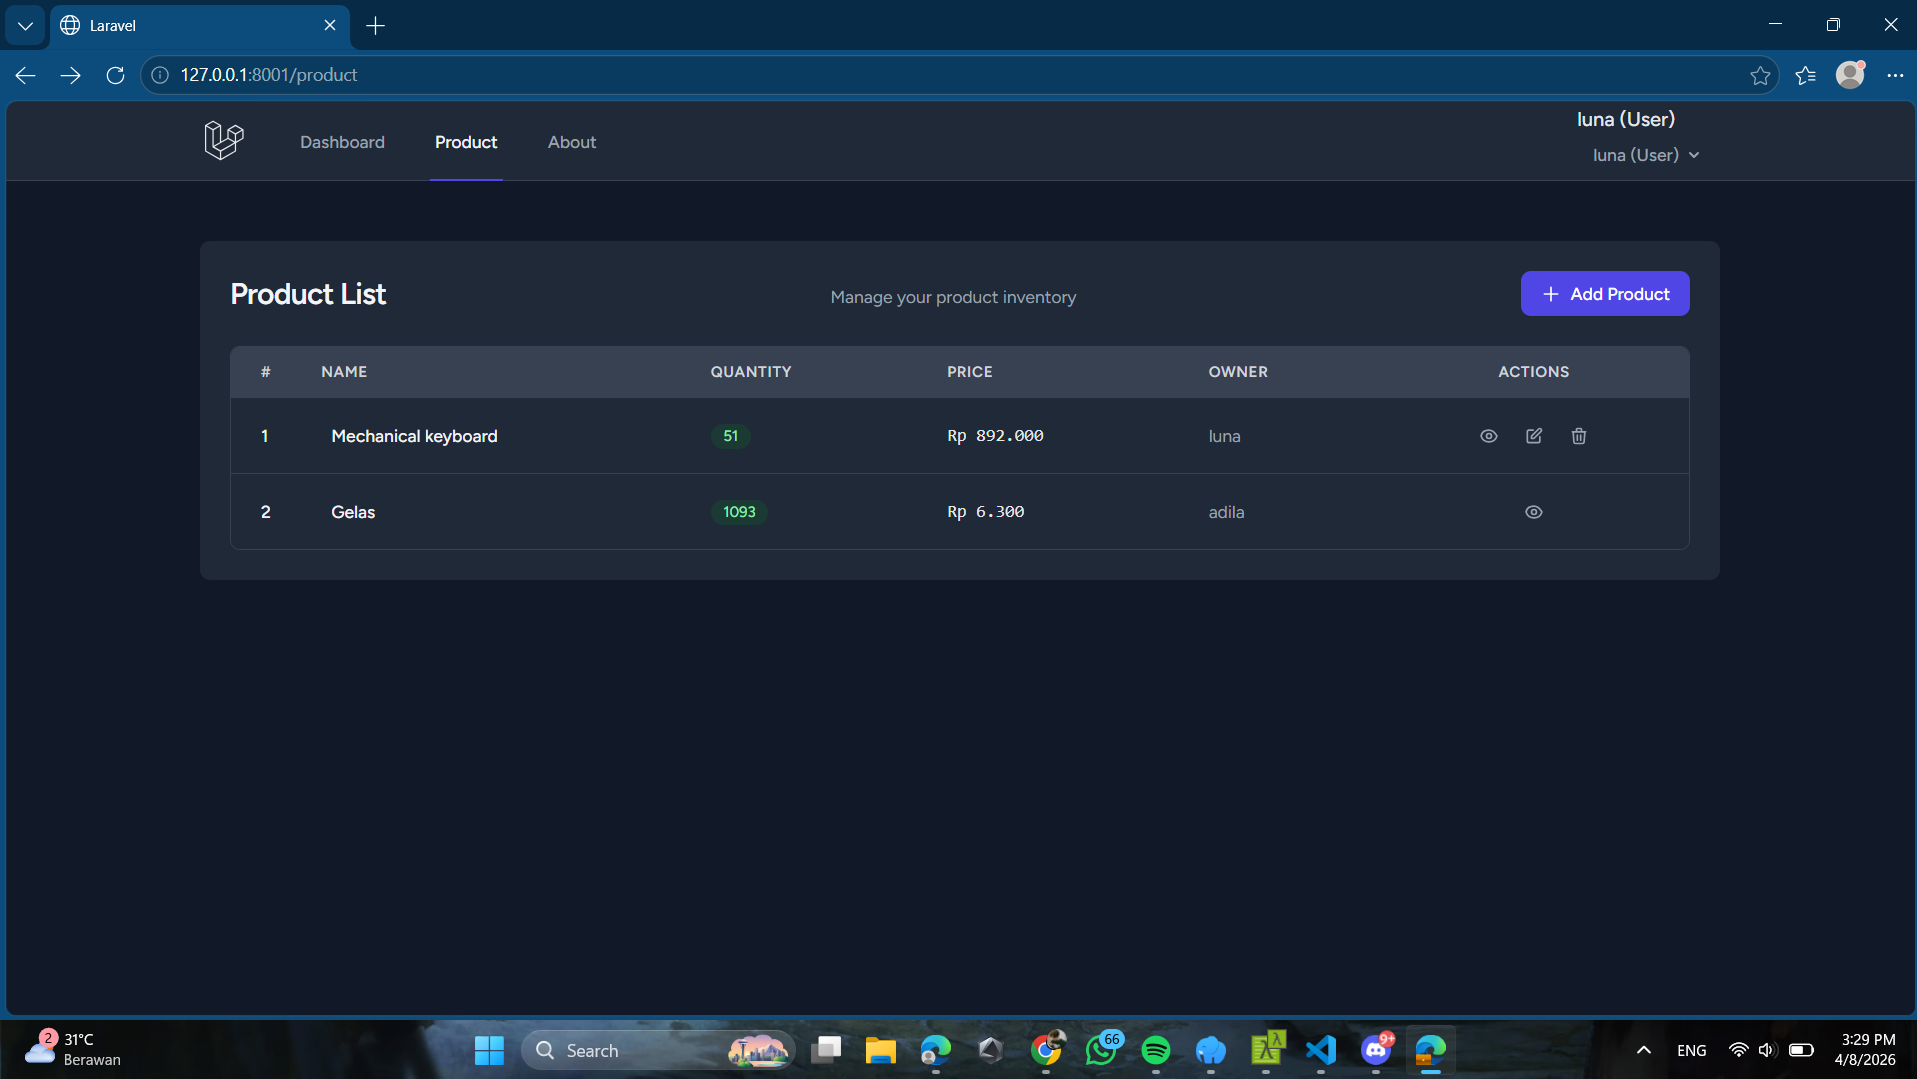
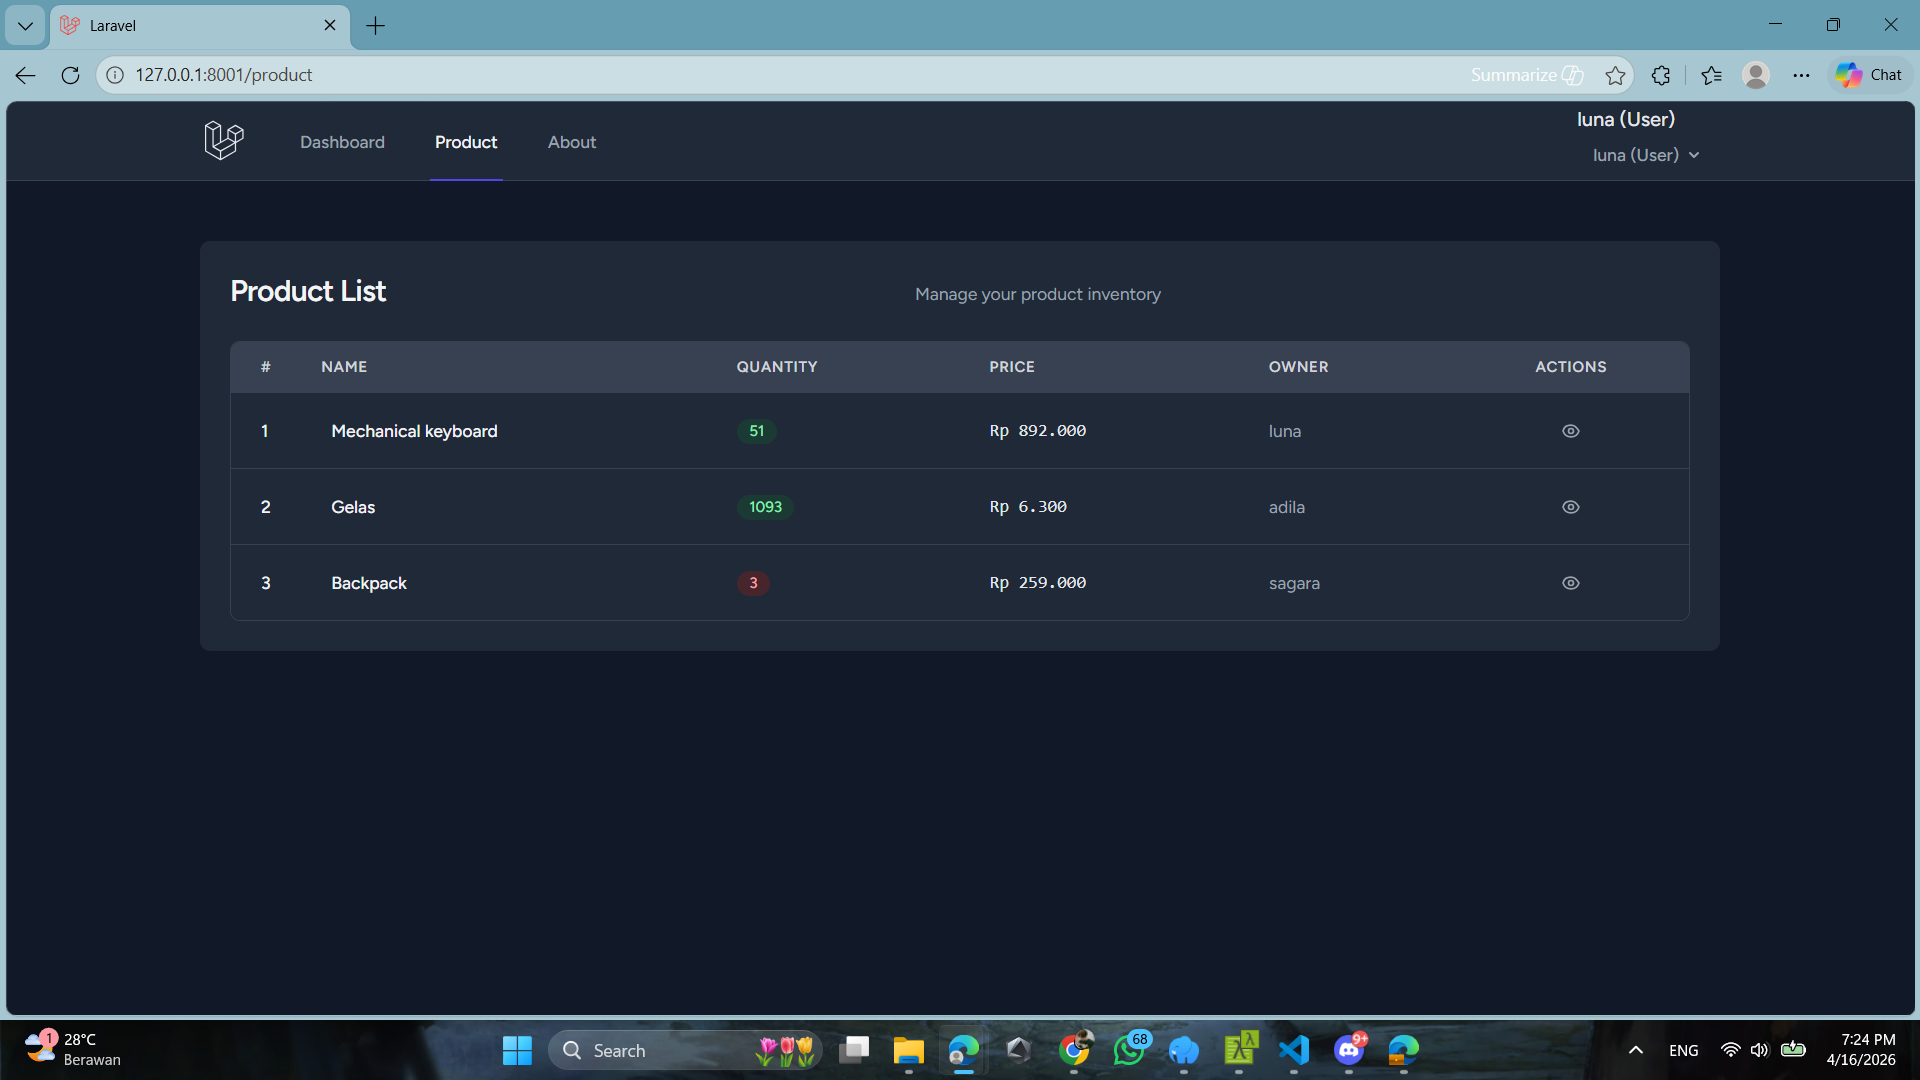
praktikum 5: update logika policy

diff --git a/resources/views/product/index.blade.php b/resources/views/product/index.blade.php
@@ -10,6 +10,8 @@
                         <p class="text-sm text-gray-500 dark:text-gray-400 mt-1">Manage your product inventory</p>
                         
                         <div class="flex gap-2">
+                            
+                            {{-- TOMBOL EXPORT (Dilindungi Gate) --}}
                             @can('export-product')
                                 <a href="{{ route('product.export') }}"
                                     class="inline-flex items-center gap-2 px-4 py-2 bg-green-600 hover:bg-green-700 text-white text-sm font-medium rounded-lg transition duration-150 shadow-sm">
@@ -17,13 +19,17 @@
                                 </a>
                             @endcan
 
-                            <a href="{{ route('product.create') }}"
-                                class="inline-flex items-center gap-2 px-4 py-2 bg-indigo-600 hover:bg-indigo-700 text-white text-sm font-medium rounded-lg transition duration-150 shadow-sm">
-                                <svg xmlns="http://www.w3.org/2000/svg" class="h-4 w-4" fill="none" viewBox="0 0 24 24" stroke="currentColor">
-                                    <path stroke-linecap="round" stroke-linejoin="round" stroke-width="2" d="M12 4v16m8-8H4" />
-                                </svg>
-                                Add Product
-                            </a>
+                            {{-- TOMBOL ADD PRODUCT (Dilindungi Policy 'create') --}}
+                            @can('create', App\Models\Product::class)
+                                <a href="{{ route('product.create') }}"
+                                    class="inline-flex items-center gap-2 px-4 py-2 bg-indigo-600 hover:bg-indigo-700 text-white text-sm font-medium rounded-lg transition duration-150 shadow-sm">
+                                    <svg xmlns="http://www.w3.org/2000/svg" class="h-4 w-4" fill="none" viewBox="0 0 24 24" stroke="currentColor">
+                                        <path stroke-linecap="round" stroke-linejoin="round" stroke-width="2" d="M12 4v16m8-8H4" />
+                                    </svg>
+                                    Add Product
+                                </a>
+                            @endcan
+                            
                         </div>
                     </div>
 

diff --git a/app/Policies/ProductPolicy.php b/app/Policies/ProductPolicy.php
@@ -29,7 +29,7 @@ class ProductPolicy
      */
     public function create(User $user): bool
     {
-        return true;
+        return $user->isAdmin();
     }
 
     /**
@@ -37,7 +37,19 @@ class ProductPolicy
      */
     public function update(User $user, Product $product): bool
     {
-        return $user->isAdmin() || $user->id === $product->user_id;
+        if (!$user->isAdmin()) {
+            return false;
+        }
+
+        if ($user->id === $product->user_id) {
+            return true;
+        }
+
+        if ($product->user && $product->user->isAdmin()) {
+            return false;
+        }
+
+        return true;
     }
 
     /**
@@ -45,7 +57,19 @@ class ProductPolicy
      */
     public function delete(User $user, Product $product): bool
     {
-        return $user->isAdmin() || $user->id === $product->user_id;
+        if (!$user->isAdmin()) {
+            return false;
+        }
+
+        if ($user->id === $product->user_id) {
+            return true;
+        }
+
+        if ($product->user && $product->user->isAdmin()) {
+            return false;
+        }
+
+        return true;
     }
 
     /**

diff --git a/README/Pertemuan-5.md b/README/Pertemuan-5.md
@@ -1,7 +1,8 @@
 # Pertemuan 5
 
 ## Tampilan Halaman Admin 
-![](../ss/praktikum5/HalamanAdmin.png)
+![](../ss/praktikum5/HalamanAdmin1.png)
+![](../ss/praktikum5/HalamanAdmin2.png)
 
 ## Tampilan Export Saat Admin klik
 ![](../ss/praktikum5/AdminExport.png)
